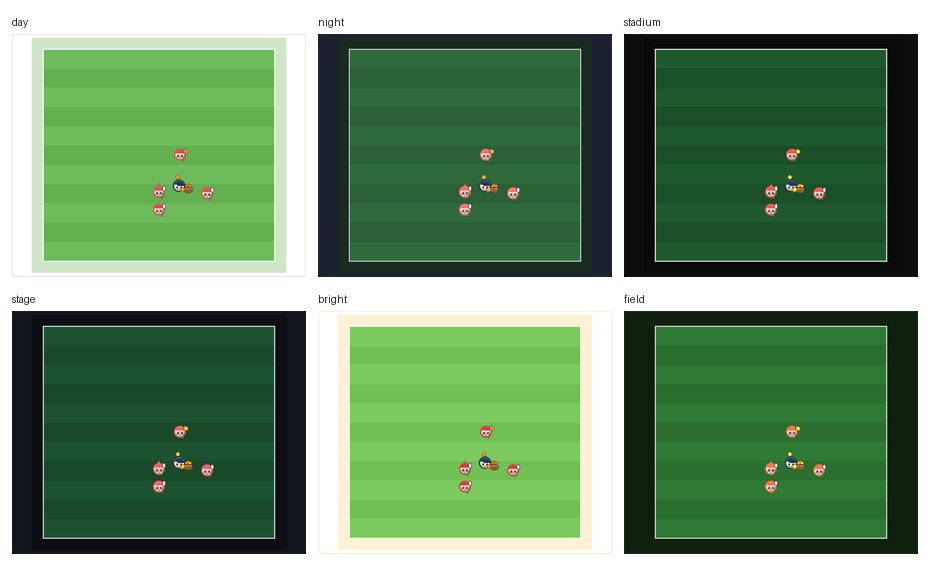
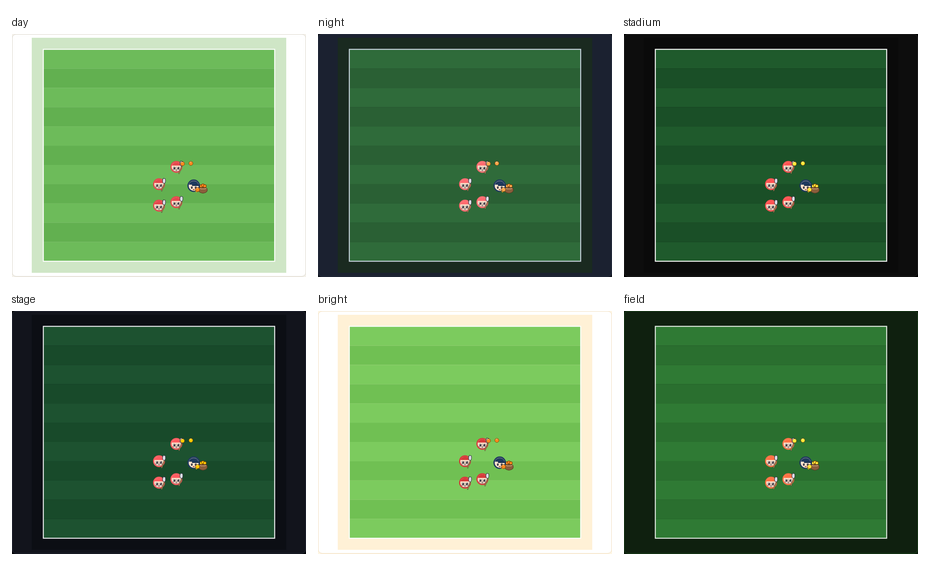
fix: roll the ball in later in the run back in Ground ball mania
The player now scoops, cradles the ball back down the gap between the
line and the coach, and rolls it in when nearly level with the coach (about
a yard short of the coach's row) instead of early in the run. To make room
the coach moved from 5 to 9 yards right of the cone. The ball leaves on
the coach's side and goes straight to them, away from the player. Balls
land about 9 yards out toward the goal; players start 2.4 seconds apart;
six balls in about 20 seconds. Screenshots remade.

AIA PAI SeCeNc Hin R Claude Code Web Sonnet 5.5 Medium v1.0

Vibe-Coder: Vibe-Coder 1.z3r0 <243014891+vibecoder-1z3r0@users.noreply.github.com>

diff --git a/src/js/drills.js b/src/js/drills.js
@@ -119,30 +119,31 @@ export const DRILLS = [
     goal: false,
     midfieldLabel: false,
     summary: "The coach stands beside the cone and rolls balls out one at a time. Each player runs out from the line, scoops one, rolls it back to the coach and rejoins the line.",
-    duration: 21.0,
+    duration: 20.0,
     actors: [
-      { id: "coach", kind: "coach", team: "none", keys: [k(0, 35.2, 35.4)] },
-      { id: "bag", kind: "ballbag", team: "none", keys: [k(0, 37.6, 36.2)] },
+      { id: "coach", kind: "coach", team: "none", keys: [k(0, 39, 35.4)] },
+      { id: "bag", kind: "ballbag", team: "none", keys: [k(0, 41.4, 36.2)] },
       { id: "cone", kind: "cone", team: "none", color: "orange", keys: [k(0, 30, 35.4)] },
-      { id: "p1", kind: "player", team: "a", keys: [k(0, 30, 38), k(1.0, 30, 38), k(1.9, 30, 33.5), k(2.9, 31.5, 27.2), k(3.2, 31.5, 27.2), k(4.5, 39.0, 28.0), k(5.2, 42.5, 31.0), k(7.2, 42.5, 41.6), k(7.6, 30, 41.6), k(9.2, 30, 41.6), k(9.9, 30, 38), k(11.4, 30, 38), k(12.3, 30, 33.5), k(13.3, 31.5, 27.2), k(13.6, 31.5, 27.2), k(14.9, 39.0, 28.0), k(15.6, 42.5, 31.0), k(17.6, 42.5, 45.2), k(18.0, 30, 45.2)] },
-      { id: "p2", kind: "player", team: "a", keys: [k(0, 30, 41.6), k(1.4, 30, 41.6), k(2.1, 30, 38), k(3.6, 30, 38), k(4.5, 30, 33.5), k(5.5, 32.4, 26.8), k(5.8, 32.4, 26.8), k(7.1, 39.0, 28.0), k(7.8, 42.5, 31.0), k(9.8, 42.5, 41.6), k(10.2, 30, 41.6), k(11.8, 30, 41.6), k(12.5, 30, 38), k(14.0, 30, 38), k(14.9, 30, 33.5), k(15.9, 32.4, 26.8), k(16.2, 32.4, 26.8), k(17.5, 39.0, 28.0), k(18.2, 42.5, 31.0), k(20.2, 42.5, 48.8), k(20.6, 30, 48.8)] },
-      { id: "p3", kind: "player", team: "a", keys: [k(0, 30, 45.2), k(1.4, 30, 45.2), k(2.1, 30, 41.6), k(4.0, 30, 41.6), k(4.7, 30, 38), k(6.2, 30, 38), k(7.1, 30, 33.5), k(8.1, 30.7, 27.6), k(8.4, 30.7, 27.6), k(9.7, 39.0, 28.0), k(10.4, 42.5, 31.0), k(12.4, 42.5, 41.6), k(12.8, 30, 41.6), k(14.4, 30, 41.6), k(15.1, 30, 38)] },
-      { id: "p4", kind: "player", team: "a", keys: [k(0, 30, 48.8), k(1.4, 30, 48.8), k(2.1, 30, 45.2), k(4.0, 30, 45.2), k(4.7, 30, 41.6), k(6.6, 30, 41.6), k(7.3, 30, 38), k(8.8, 30, 38), k(9.7, 30, 33.5), k(10.7, 31.9, 27.0), k(11.0, 31.9, 27.0), k(12.3, 39.0, 28.0), k(13.0, 42.5, 31.0), k(15.0, 42.5, 41.6), k(15.4, 30, 41.6)] },
-      { id: "ball", kind: "ball", team: "none", keys: [k(0, 36.2, 36.4), k(0.8, 36.2, 36.4), k(2.0, 33.1, 26.4), k(3.2, 33.1, 26.4), k(3.98, 37.6, 26.88), k(4.58, 36.2, 36.4), k(11.2, 36.2, 36.4), k(12.4, 33.1, 26.4), k(13.6, 33.1, 26.4), k(14.38, 37.6, 26.88), k(14.98, 36.2, 36.4)] },
-      { id: "ball2", kind: "ball", team: "none", keys: [k(0, 36.2, 36.4), k(3.4, 36.2, 36.4), k(4.6, 34.0, 26.0), k(5.8, 34.0, 26.0), k(6.58, 37.96, 26.72), k(7.18, 36.2, 36.4), k(13.8, 36.2, 36.4), k(15.0, 34.0, 26.0), k(16.2, 34.0, 26.0), k(16.98, 37.96, 26.72), k(17.58, 36.2, 36.4)] },
-      { id: "ball3", kind: "ball", team: "none", keys: [k(0, 36.2, 36.4), k(6.0, 36.2, 36.4), k(7.2, 32.3, 26.8), k(8.4, 32.3, 26.8), k(9.18, 37.28, 27.04), k(9.78, 36.2, 36.4)] },
-      { id: "ball4", kind: "ball", team: "none", keys: [k(0, 36.2, 36.4), k(8.6, 36.2, 36.4), k(9.8, 33.5, 26.2), k(11.0, 33.5, 26.2), k(11.78, 37.76, 26.8), k(12.38, 36.2, 36.4)] },
+      { id: "p1", kind: "player", team: "a", keys: [k(0, 30, 38), k(1.0, 30, 38), k(1.9, 30, 33.5), k(2.9, 36.5, 26.7), k(3.2, 36.5, 26.7), k(4.0, 34.5, 30.7), k(4.5, 34.5, 34.4), k(7.1, 34.5, 41.6), k(7.6, 30, 41.6), k(8.6, 30, 41.6), k(9.3, 30, 38), k(10.6, 30, 38), k(11.5, 30, 33.5), k(12.5, 36.5, 26.7), k(12.8, 36.5, 26.7), k(13.6, 34.5, 30.7), k(14.1, 34.5, 34.4), k(16.7, 34.5, 45.2), k(17.2, 30, 45.2)] },
+      { id: "p2", kind: "player", team: "a", keys: [k(0, 30, 41.6), k(1.4, 30, 41.6), k(2.1, 30, 38), k(3.4, 30, 38), k(4.3, 30, 33.5), k(5.3, 37.4, 26.5), k(5.6, 37.4, 26.5), k(6.4, 34.5, 30.5), k(6.9, 34.5, 34.4), k(9.5, 34.5, 41.6), k(10.0, 30, 41.6), k(11.0, 30, 41.6), k(11.7, 30, 38), k(13.0, 30, 38), k(13.9, 30, 33.5), k(14.9, 37.4, 26.5), k(15.2, 37.4, 26.5), k(16.0, 34.5, 30.5), k(16.5, 34.5, 34.4), k(19.1, 34.5, 48.8), k(19.6, 30, 48.8)] },
+      { id: "p3", kind: "player", team: "a", keys: [k(0, 30, 45.2), k(1.4, 30, 45.2), k(2.1, 30, 41.6), k(3.8, 30, 41.6), k(4.5, 30, 38), k(5.8, 30, 38), k(6.7, 30, 33.5), k(7.7, 35.8, 27.0), k(8.0, 35.8, 27.0), k(8.8, 34.5, 31.0), k(9.3, 34.5, 34.4), k(11.9, 34.5, 41.6), k(12.4, 30, 41.6), k(13.4, 30, 41.6), k(14.1, 30, 38)] },
+      { id: "p4", kind: "player", team: "a", keys: [k(0, 30, 48.8), k(1.4, 30, 48.8), k(2.1, 30, 45.2), k(3.8, 30, 45.2), k(4.5, 30, 41.6), k(6.2, 30, 41.6), k(6.9, 30, 38), k(8.2, 30, 38), k(9.1, 30, 33.5), k(10.1, 37.0, 26.6), k(10.4, 37.0, 26.6), k(11.2, 34.5, 30.6), k(11.7, 34.5, 34.4), k(14.3, 34.5, 41.6), k(14.8, 30, 41.6)] },
+      { id: "ball", kind: "ball", team: "none", keys: [k(0, 40, 36.4), k(0.8, 40, 36.4), k(2.0, 38.1, 25.9), k(3.2, 38.1, 25.9), k(4.0, 36.1, 29.9), k(4.5, 36.1, 33.6), k(5.0, 40, 36.4), k(10.4, 40, 36.4), k(11.6, 38.1, 25.9), k(12.8, 38.1, 25.9), k(13.6, 36.1, 29.9), k(14.1, 36.1, 33.6), k(14.6, 40, 36.4)] },
+      { id: "ball2", kind: "ball", team: "none", keys: [k(0, 40, 36.4), k(3.2, 40, 36.4), k(4.4, 39.0, 25.7), k(5.6, 39.0, 25.7), k(6.4, 36.1, 29.7), k(6.9, 36.1, 33.6), k(7.4, 40, 36.4), k(12.8, 40, 36.4), k(14.0, 39.0, 25.7), k(15.2, 39.0, 25.7), k(16.0, 36.1, 29.7), k(16.5, 36.1, 33.6), k(17.0, 40, 36.4)] },
+      { id: "ball3", kind: "ball", team: "none", keys: [k(0, 40, 36.4), k(5.6, 40, 36.4), k(6.8, 37.4, 26.2), k(8.0, 37.4, 26.2), k(8.8, 36.1, 30.2), k(9.3, 36.1, 33.6), k(9.8, 40, 36.4)] },
+      { id: "ball4", kind: "ball", team: "none", keys: [k(0, 40, 36.4), k(8.0, 40, 36.4), k(9.2, 38.6, 25.8), k(10.4, 38.6, 25.8), k(11.2, 36.1, 29.8), k(11.7, 36.1, 33.6), k(12.2, 40, 36.4)] },
     ],
     captions: [
-      { t: 0, text: "Four players line up behind the cone. The coach stands beside the cone with the balls." },
-      { t: 0.8, text: "Coach rolls a ball up the field, about 9 yards out." },
+      { t: 0, text: "Four players line up behind the cone. The coach stands off to the side with the balls." },
+      { t: 0.6, text: "Coach rolls a ball up the field, about 9 yards out." },
       { t: 1.4, text: "The first player runs through the cone and attacks the ball." },
       { t: 2.9, text: "Scoop it: get low, stick down, and keep your feet moving through it." },
       { t: 3.2, text: "As the player scoops, the coach is already rolling the next ball out." },
-      { t: 4.2, text: "Run clockwise past the coach, rolling the ball in on the move." },
-      { t: 5.6, text: "Jog down the outside and back to the end of the line." },
-      { t: 12.5, text: "Around again, everyone circling the same way. Field as many ground balls as you can." },
-      { t: 19.5, text: "Six ground balls in about 20 seconds. Beat that next round." },
+      { t: 3.9, text: "Cradle the ball and run it back down between the line and the coach." },
+      { t: 4.5, text: "Roll it in when you are nearly level with the coach, without stopping." },
+      { t: 5.6, text: "Then jog on down and around to the back of the line." },
+      { t: 12, text: "Around again, everyone circling the same way. Field as many ground balls as you can." },
+      { t: 18, text: "Six ground balls in about 20 seconds. Beat that next round." },
     ],
   },
 ];
